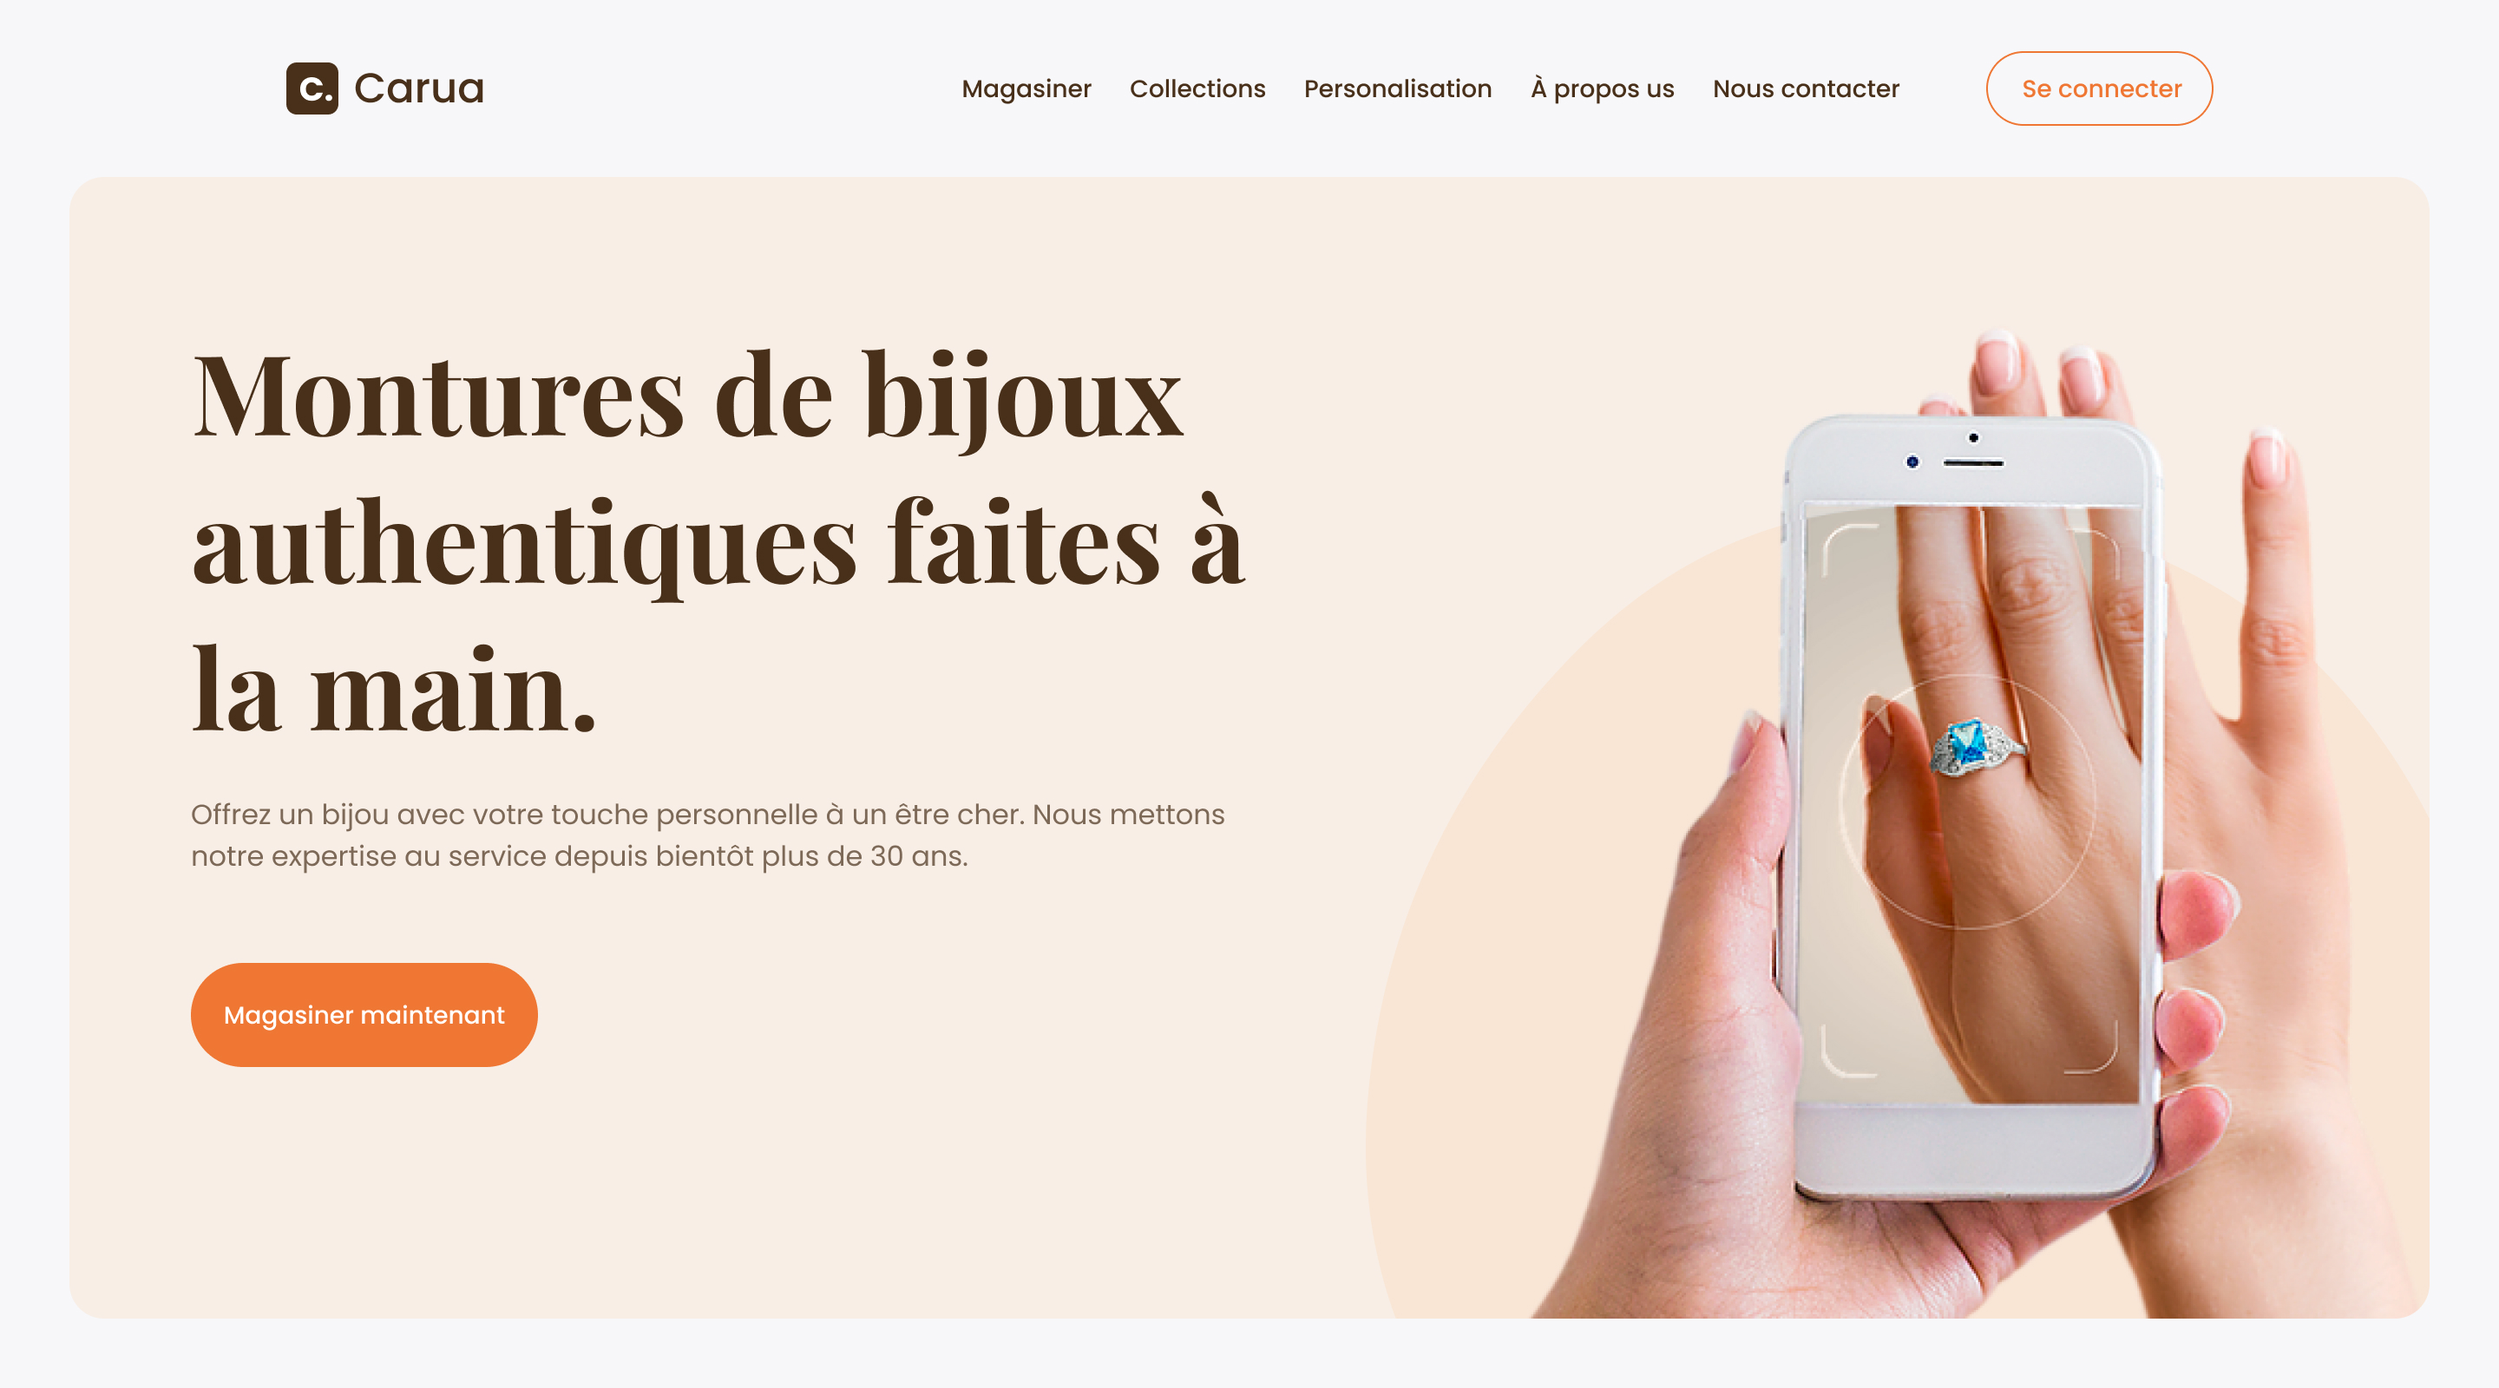
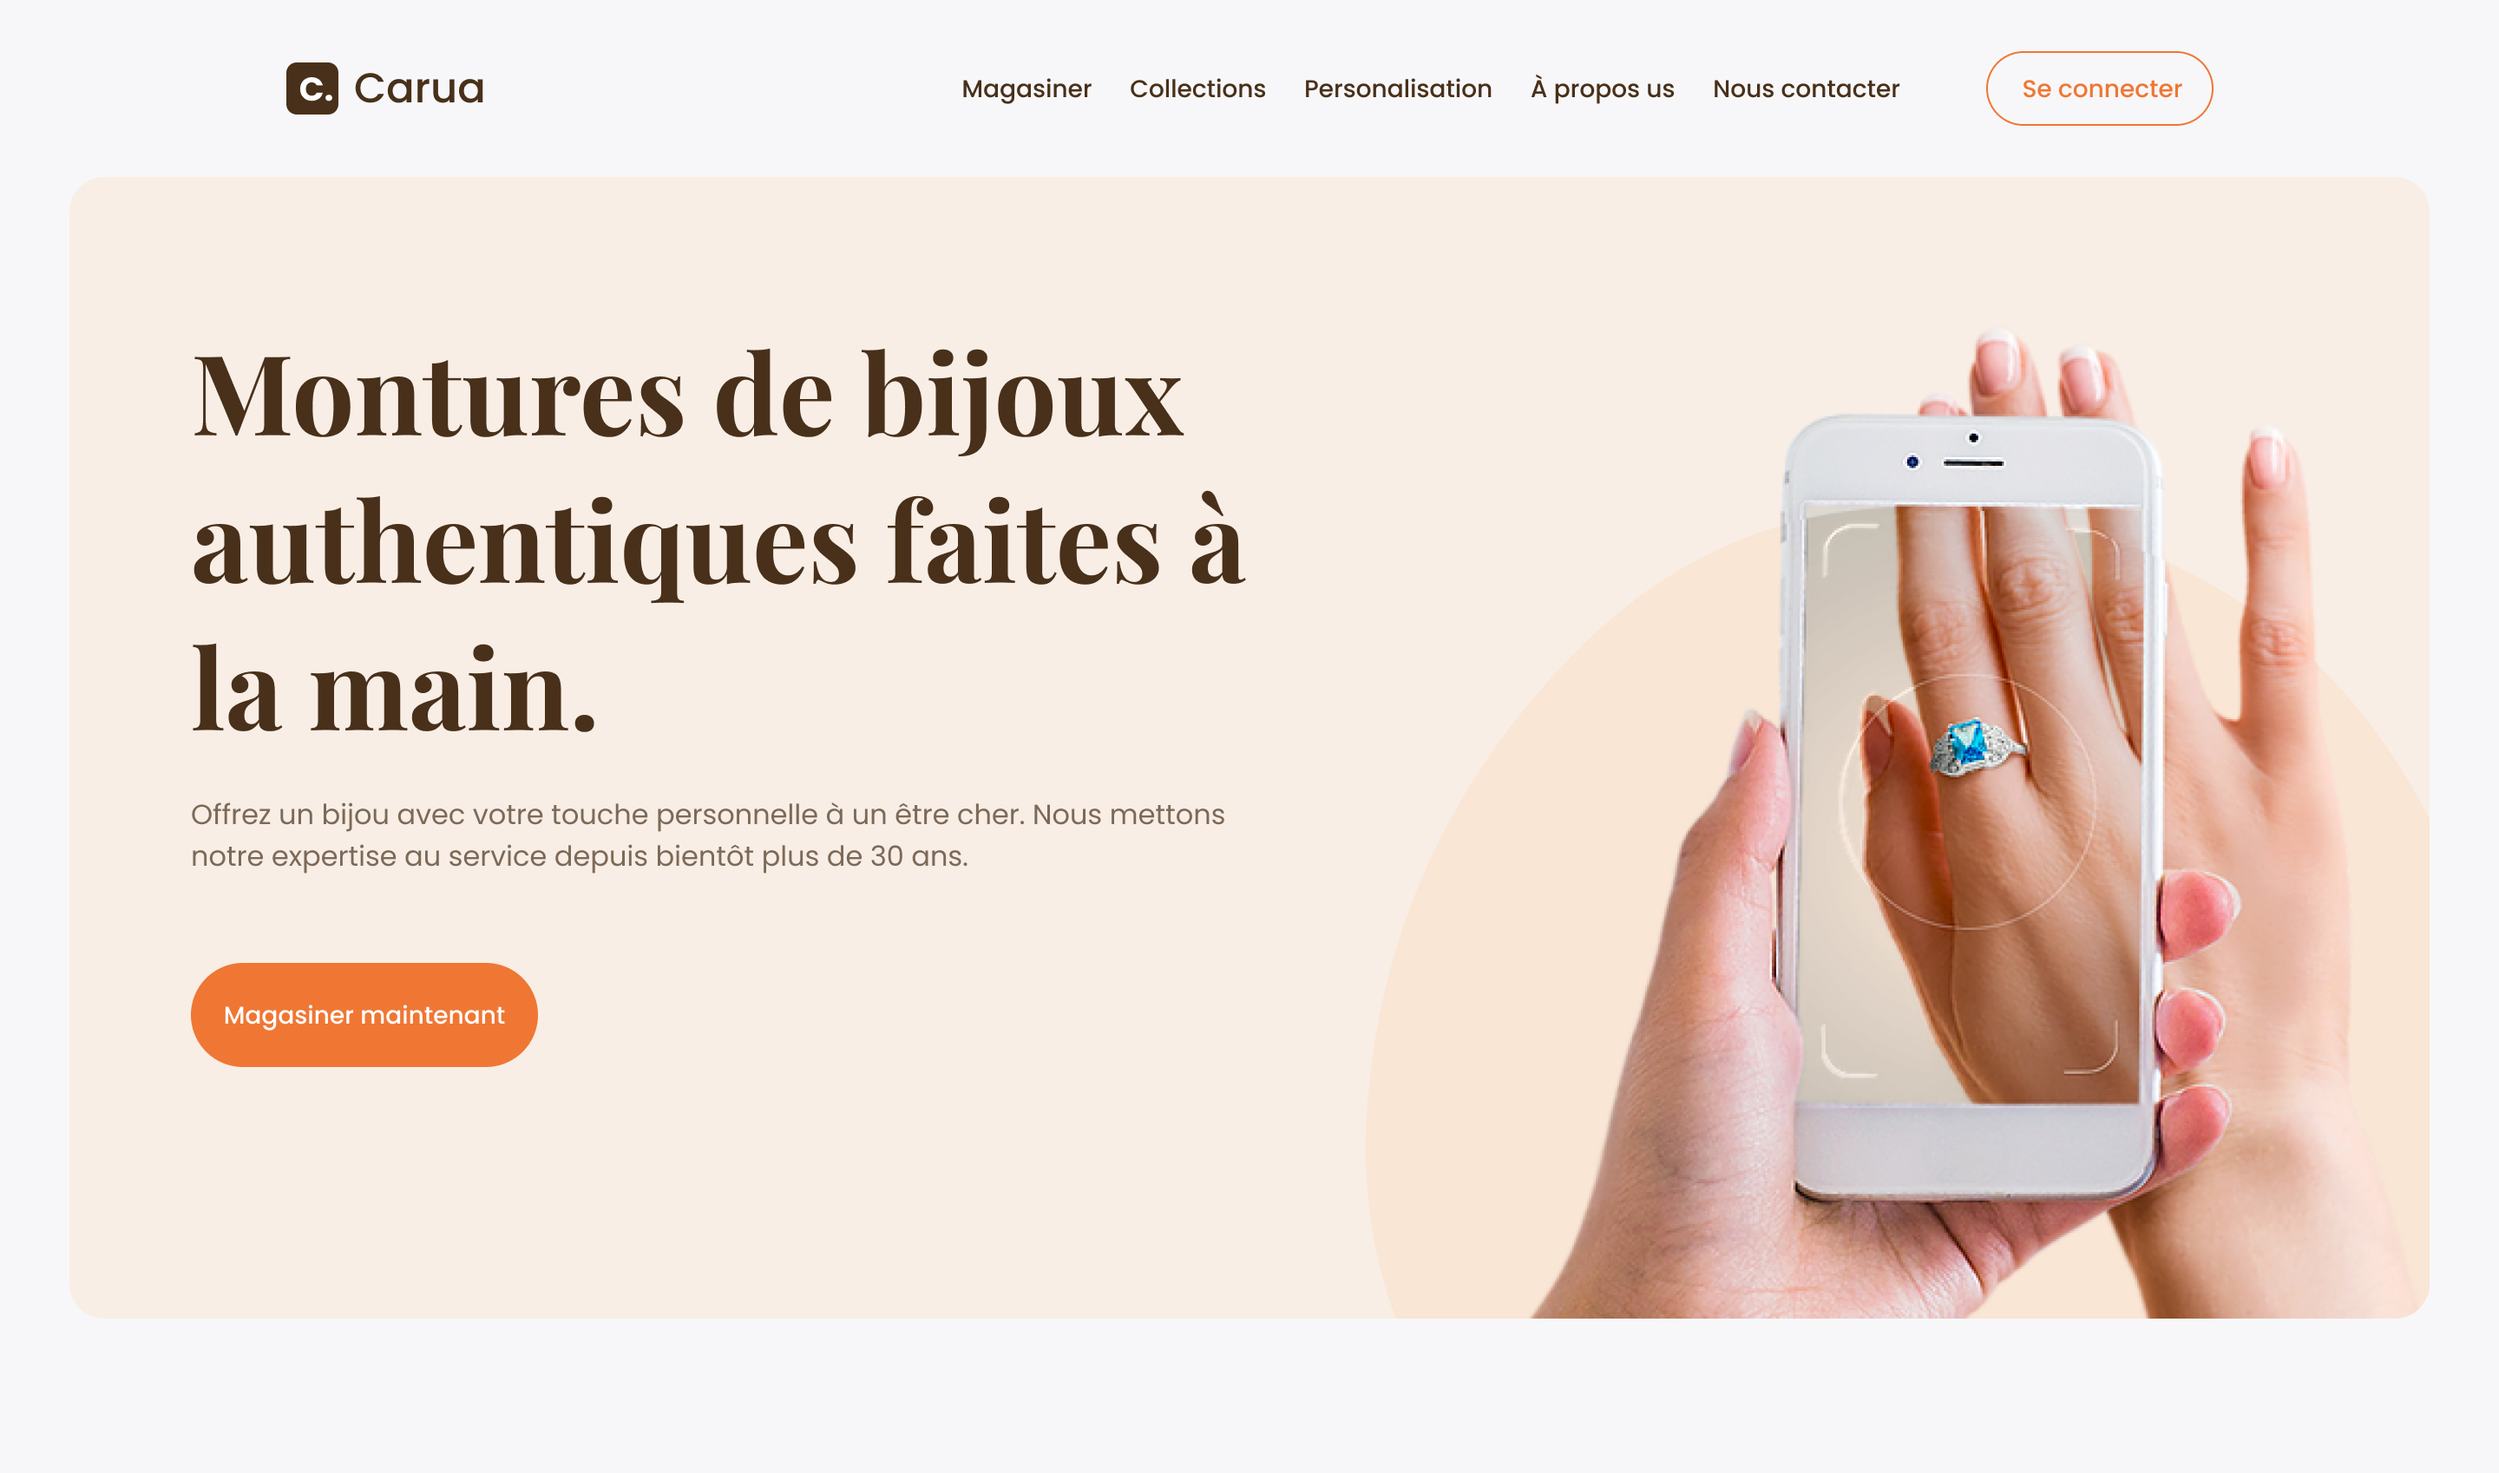
added the hero img and responsiveness

diff --git a/sections/HeroImage.module.scss b/sections/HeroImage.module.scss
@@ -1,0 +1,133 @@
+@import '../styles/app';
+
+.hero_img {
+  position: relative;
+  height: 600px;
+
+  //   @include media-breakpoint-up('xxl') {
+  //     height: 700px;
+  //   }
+
+  @include media-breakpoint-down('md') {
+    height: 300px;
+  }
+}
+
+.mobile_frame {
+  position: absolute;
+  bottom: 0;
+
+  width: 209px;
+  height: 450px;
+  border-radius: 32px;
+  border: 4px solid #474747;
+  background-color: whitesmoke;
+
+  //   @include media-breakpoint-up('xxl') {
+  //     width: 278px;
+  //     height: 600px;
+  //     border-width: 5px;
+  //     border-radius: 50px;
+  //   }
+
+  @include media-breakpoint-down('md') {
+    width: 93px;
+    height: 200px;
+    border-radius: 16px;
+    border-width: 3px;
+    left: 50%;
+    transform: translateX(-200%);
+  }
+
+  @include media-breakpoint-down('sm') {
+    width: 62.7px;
+    height: 135px;
+    border-radius: 11px;
+    border-width: 2px;
+    left: 50%;
+    transform: translateX(-200%);
+  }
+
+  &::after {
+    content: ' ';
+    position: absolute;
+    left: 50%;
+    bottom: 2%;
+    width: 30%;
+    height: 3px;
+    background-color: #474747;
+    border-radius: 7px;
+    transform: translateX(-50%);
+
+    @include media-breakpoint-down('md') {
+      height: 1.5px;
+    }
+    @include media-breakpoint-down('sm') {
+      height: 1px;
+    }
+  }
+
+  .mobile_frame_img {
+    width: 100%;
+    height: 100%;
+    border-radius: inherit;
+  }
+}
+
+.laptop_frame {
+  position: absolute;
+  bottom: 10px;
+  left: 50px;
+
+  width: 768px;
+  height: 512px;
+  border-radius: 22px;
+  border: 4px solid #474747;
+  background-color: whitesmoke;
+
+  //   @include media-breakpoint-up('xxl') {
+  //     width: 1024px;
+  //     height: 683px;
+  //     border-width: 5px;
+  //     border-radius: 30px;
+  //   }
+
+  @include media-breakpoint-down('md') {
+    width: 341.5px;
+    height: 227.6px;
+    border-radius: 11px;
+    border-width: 3px;
+    left: 55%;
+    transform: translateX(-50%);
+  }
+
+  @include media-breakpoint-down('sm') {
+    width: 230.4px;
+    height: 153.6px;
+    border-radius: 6px;
+    border-width: 2px;
+    left: 55%;
+    transform: translateX(-50%);
+  }
+
+  .laptop_frame_img {
+    width: 100%;
+    height: 100%;
+    border-radius: inherit;
+  }
+}
+
+@keyframes frame_appear {
+  from {
+    opacity: 0;
+  }
+  to {
+    opacity: 1;
+  }
+}
+
+.current_frame {
+  animation: frame_appear 0.5s ease-in;
+  animation-fill-mode: forwards;
+  opacity: 1;
+}

diff --git a/sections/HeroImage.tsx b/sections/HeroImage.tsx
@@ -1,3 +1,47 @@
-export default function HeroImage() {
-  return <div className="hero_img"></div>
+import Image from 'next/image'
+import styles from './HeroImage.module.scss'
+import React from 'react'
+
+interface FrameProps {
+  name: string
+  visisble?: boolean
 }
+
+const imgNames = ['decotia', 'carua']
+
+function HeroImage() {
+
+  const [frame, setFrame] = React.useState(0)
+
+  React.useEffect(() => {
+    const interval = setInterval(() => {
+      setFrame((prev)=> ((prev + 1) % imgNames.length))
+    }, 8000)
+    return () => clearInterval(interval)
+  }, [])
+
+  return (
+    <div className={styles.hero_img}>
+      <LaptopFrame name={imgNames[frame]} visisble={frame == 0} />
+      <MobileFrame name={imgNames[frame]} visisble={frame == 1}/>
+    </div>
+  )
+}
+
+function LaptopFrame(props: FrameProps) {
+  return (
+      <div className={styles.laptop_frame}>
+        <Image className={`${styles.laptop_frame_img} ${props.visisble && styles.current_frame}`} src={`/images/hero/${props.name}-laptop.jpg`} alt={props.name} width={2880} height={1600}/>
+      </div>
+  )
+}
+
+function MobileFrame(props: FrameProps) {
+  return (
+      <div className={styles.mobile_frame}>
+        <Image className={`${styles.mobile_frame_img} ${props.visisble && styles.current_frame}`} src={`/images/hero/${props.name}-mobile.jpg`} alt={props.name} width={780} height={1688}/>
+      </div>
+  )
+}
+
+export default HeroImage

diff --git a/sections/HomeHero.tsx b/sections/HomeHero.tsx
@@ -1,12 +1,12 @@
-import Image from 'next/image'
 import styles from './HomeHero.module.scss'
+import HeroImage from './HeroImage'
 
 export default function HomeHero() {
   return (
     <section className={styles.hero_section}>
       <div className={styles.hero_container}>
         <div className={styles.hero_text_container}>Hello, I'm John Doe</div>
-        <div className={styles.hero_img_container}></div>
+        <div className={styles.hero_img_container}><HeroImage/></div>
       </div>
     </section>
   )

diff --git a/sections/HomeHero.module.scss b/sections/HomeHero.module.scss
@@ -34,3 +34,9 @@
     }
   }
 }
+
+
+.hero_img_container {
+  width: 100%;
+  height: 100%;
+}
